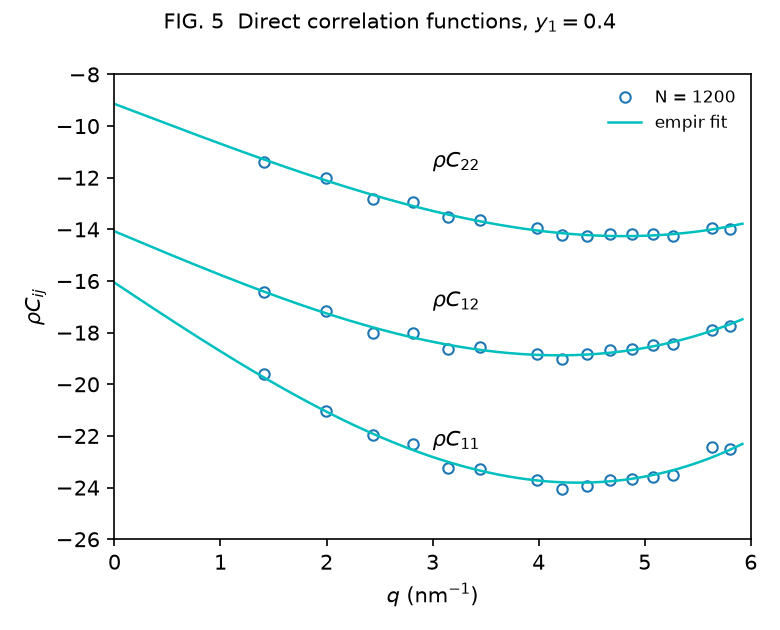
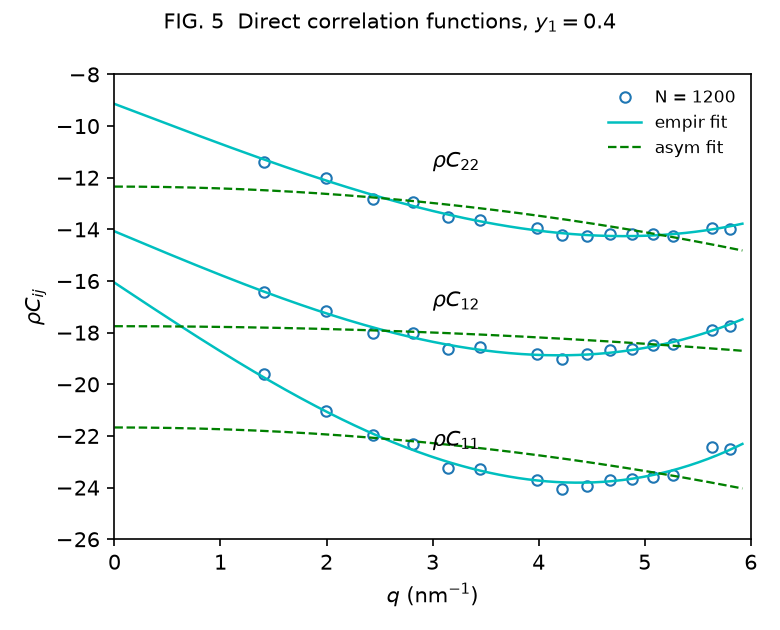
Add asymptotic fit (Eq. 27) to Fig. 5 with diagnostics
Implements rho*C_ij = A + B q^2 least-squares fit alongside the empirical
fit. Quantifies why it fails: ~6x larger RMS residual because the even,
vertex-at-q=0 parabola cannot capture the interior minimum of rho*C_ij(q).

Claude-Session: https://claude.ai/code/session_01FGFuH3Pi95Zs41CCTrQLXm

diff --git a/kb_repro/analyze.py b/kb_repro/analyze.py
@@ -225,6 +225,26 @@ def main():
             c11.append(rhoC[0,0]); c12.append(rhoC[0,1]); c22.append(rhoC[1,1])
         ax2.plot(qf, c11, "c-", lw=1.2, label="empir fit")
         ax2.plot(qf, c12, "c-", lw=1.2); ax2.plot(qf, c22, "c-", lw=1.2)
+
+        # ---- asymptotic fit, Eq. (27): rho C_ij(q) = A + B q^2 ----
+        # (truncation of c_ij(r) -> finite core + r^-6 dispersion tail; even in q)
+        p1 = data["N1200"]
+        qd = p1["q"]
+        fasy = lambda q, A, B: A + B*q**2
+        emp_at = dict(rhoC11=c11, rhoC12=c12, rhoC22=c22)  # on fine grid qf
+        print("\nFigure 5 fit diagnostics (N=1200), RMS residual of rho*C_ij:")
+        for key, lab, off in (("rhoC11", "11", 0.0), ("rhoC12", "12", 0.0),
+                              ("rhoC22", "22", 0.0)):
+            ca, _ = curve_fit(fasy, qd, p1[key])
+            ax2.plot(qf, fasy(qf, *ca), "g--", lw=1.1,
+                     label="asym fit" if key == "rhoC11" else None)
+            # residuals: asymptotic vs empirical, both at simulated q points
+            res_asy = np.sqrt(np.mean((fasy(qd, *ca) - p1[key])**2))
+            emp_interp = np.interp(qd, qf, emp_at[key])
+            res_emp = np.sqrt(np.mean((emp_interp - p1[key])**2))
+            print(f"  rhoC{lab}:  empirical RMS = {res_emp:.3f}   "
+                  f"asymptotic RMS = {res_asy:.3f}   "
+                  f"(A={ca[0]:.2f}, B={ca[1]:.3f})")
     ax2.set_xlabel(r"$q$ (nm$^{-1}$)"); ax2.set_ylabel(r"$\rho C_{ij}$")
     ax2.set_xlim(0, 6); ax2.set_ylim(-26, -8)
     ax2.text(0.5, 0.8, r"$\rho C_{22}$", transform=ax2.transAxes)
